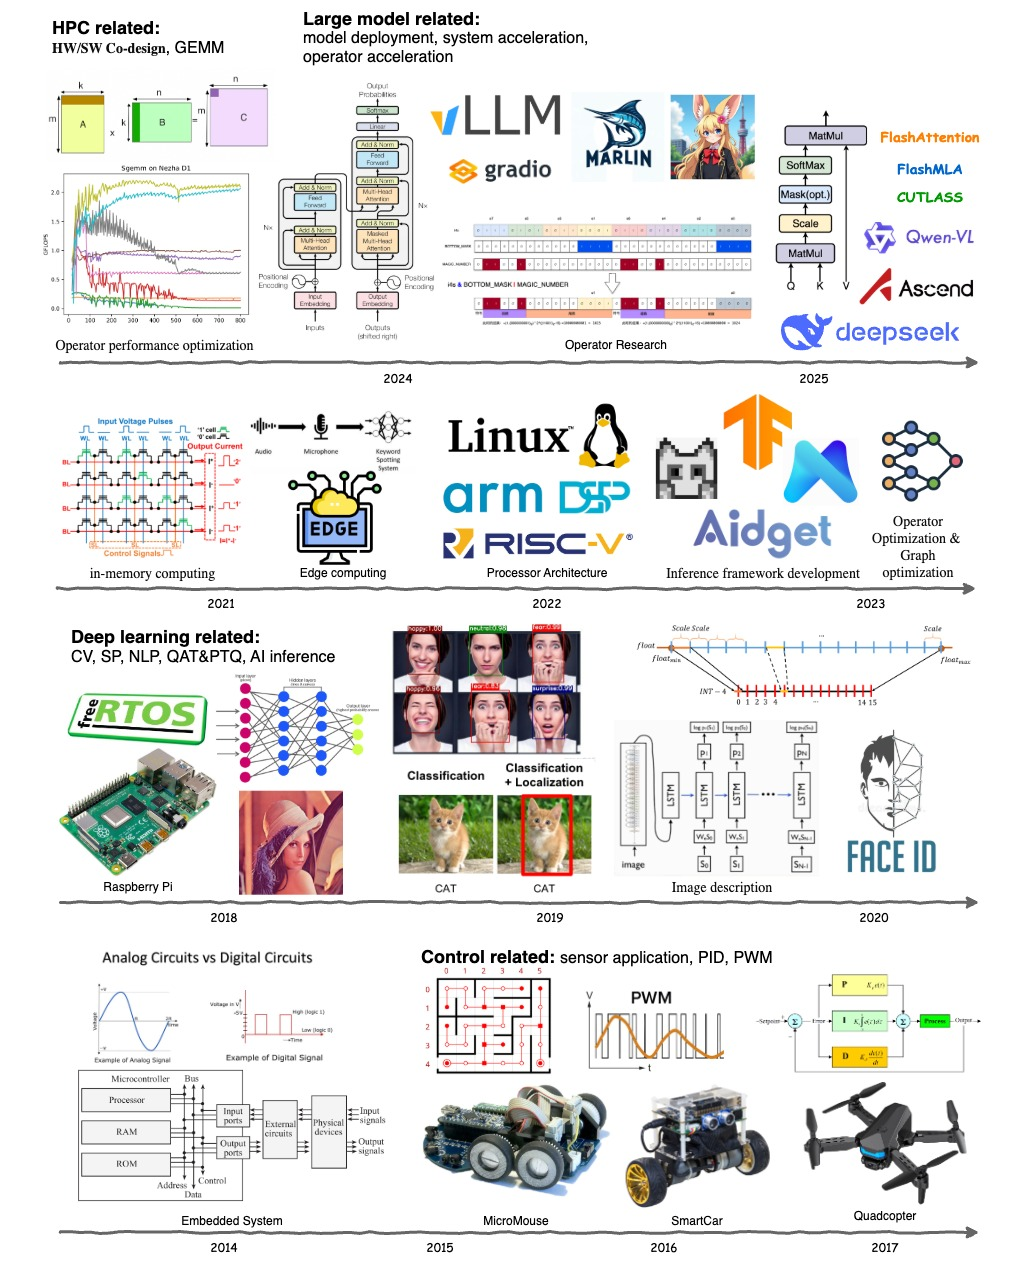
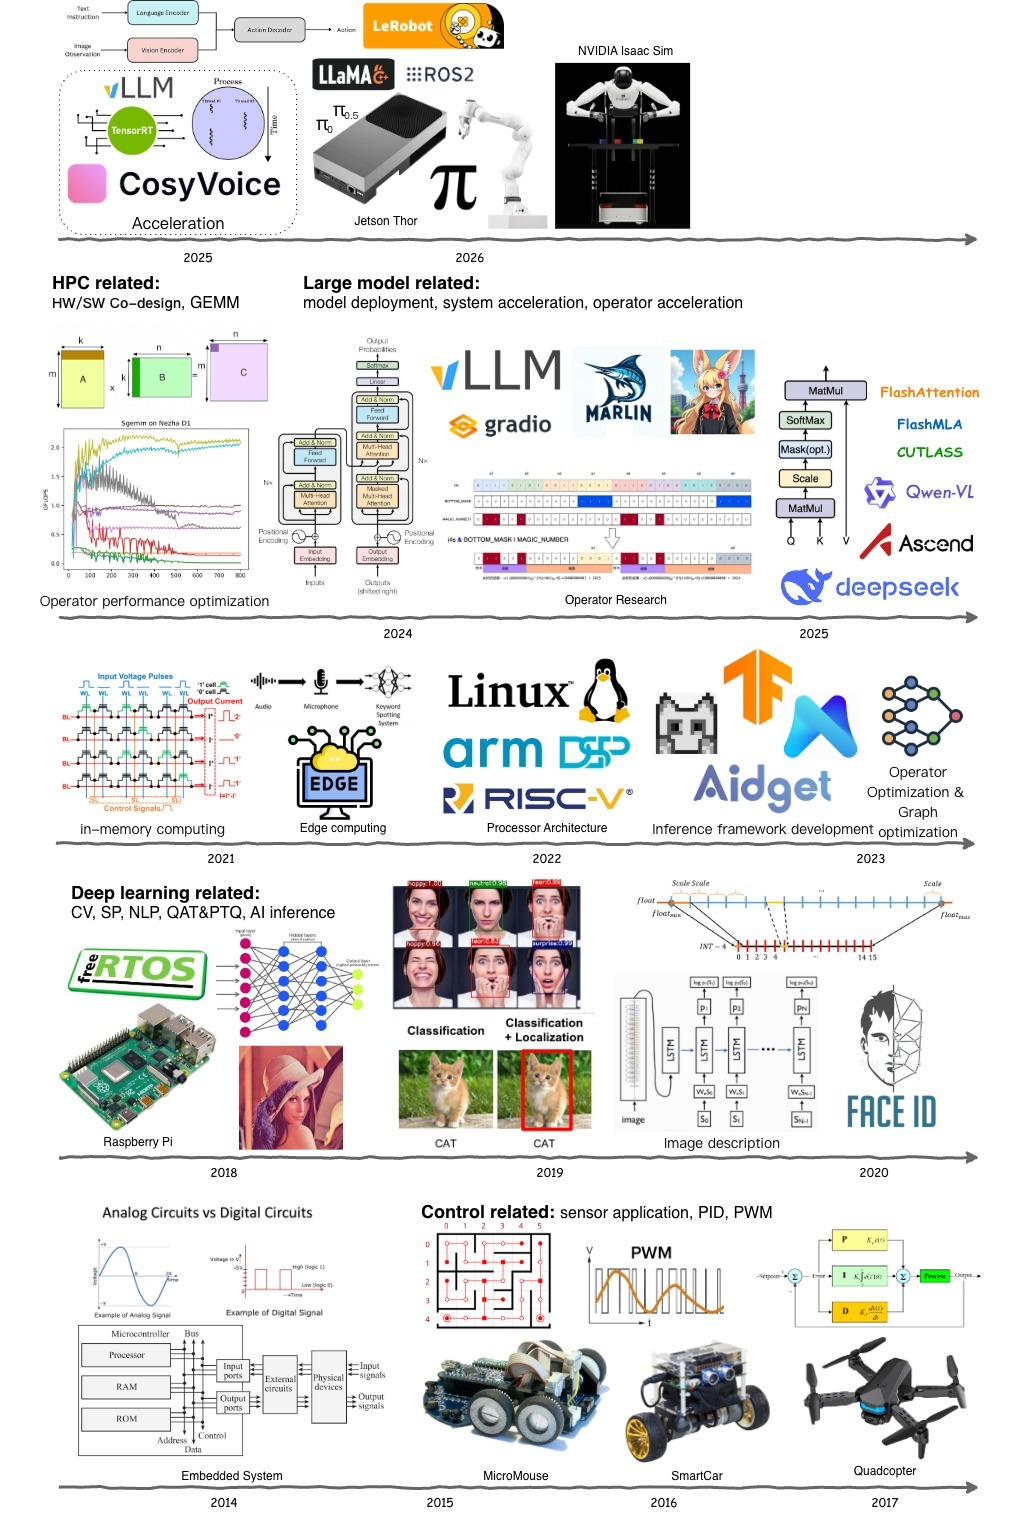
Site updated: 2026-05-07 15:08:25

diff --git a/about/index.html b/about/index.html
@@ -28,7 +28,7 @@
 <meta property="og:description" content="👋 Hi I&#39;m Zhao Dongyu, a programmer and engineer dedicated to artificial intelligence, edge computing and high-performance computing. I graduated from Peking University. It&#39;s really nice to meet you.">
 <meta property="og:locale" content="en_US">
 <meta property="article:published_time" content="2023-07-05T01:36:52.000Z">
-<meta property="article:modified_time" content="2026-04-13T01:22:08.139Z">
+<meta property="article:modified_time" content="2026-05-07T07:07:58.500Z">
 <meta property="article:author" content="Zhao Dongyu">
 <meta property="article:tag" content="Blog">
 <meta name="twitter:card" content="summary">
@@ -239,8 +239,9 @@ to <code>artificial intelligence</code>, <code>edge computing</code> and
 style="color:#8b0012">Peking University</span>.</p>
 <p><strong>It's really nice to meet you.</strong></p>
 <h2 id="im-working-on-...">🔭 I’m working on ...</h2>
-<p>Deep learning, inference framework, large model deployment, high
-performance computing, edge computing, in-memory computing...</p>
+<p>Deep learning, inference frameworks, large model deployment,
+high-performance computing, edge computing, in-memory computing, and
+embodied intelligence.</p>
 <p><img src=/images/skill-tree.jpg width=100% /></p>
 <h2 id="reading">📖 <a
 target="_blank" rel="noopener" href="https://t.me/read_and_walk">Reading</a></h2>
